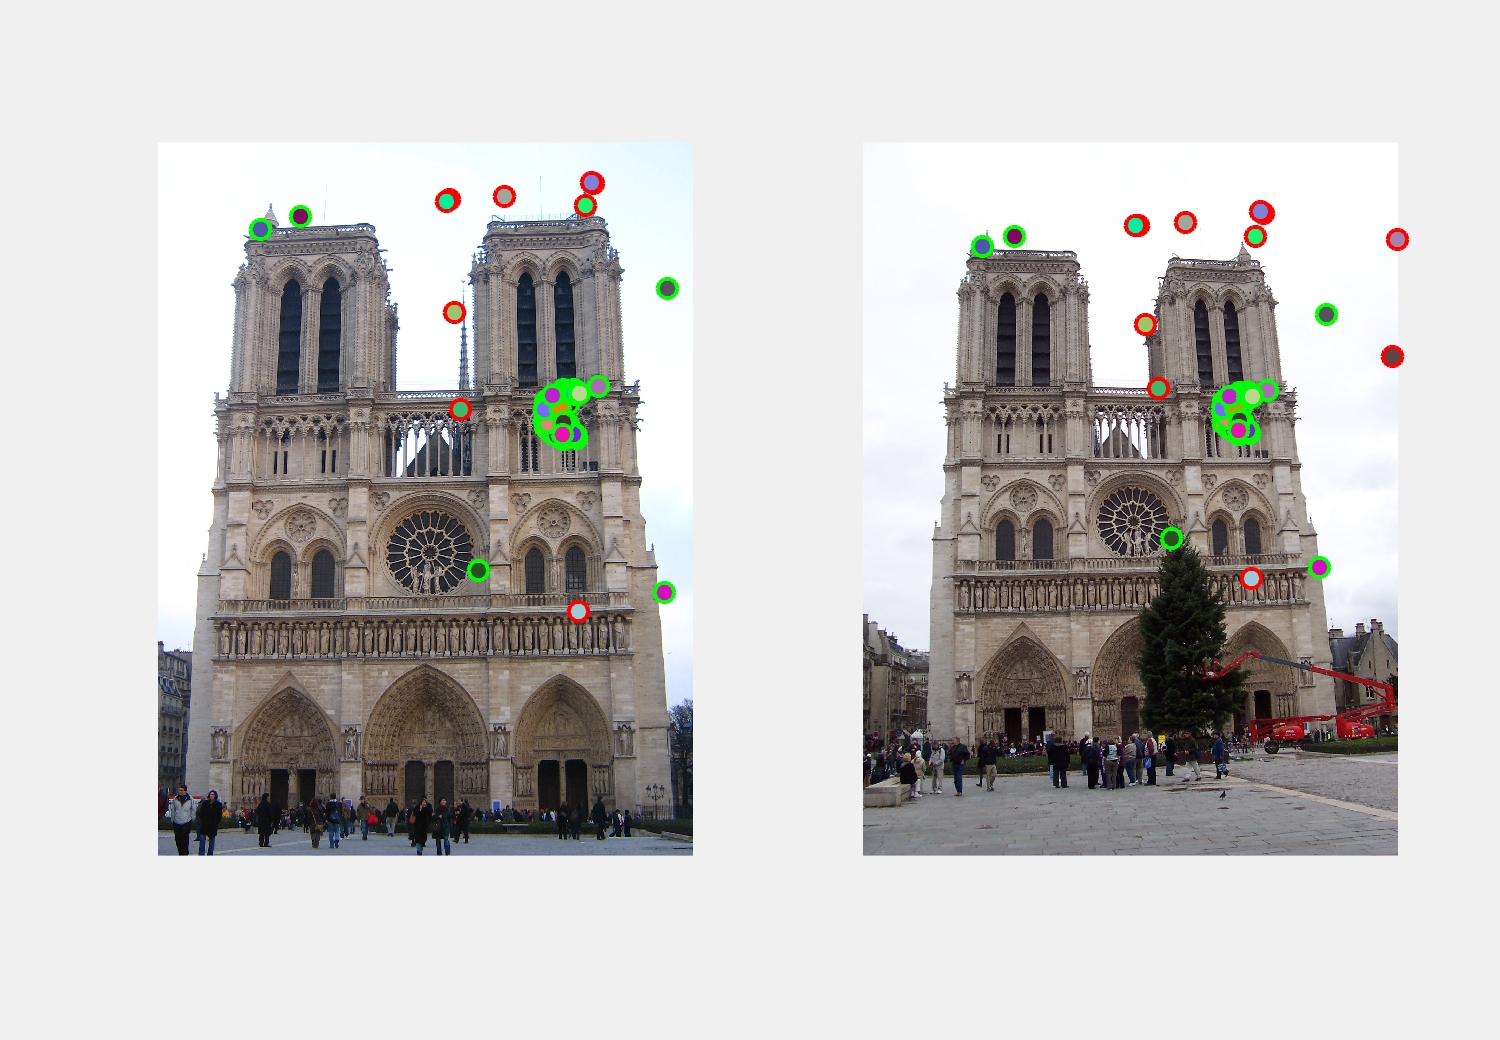
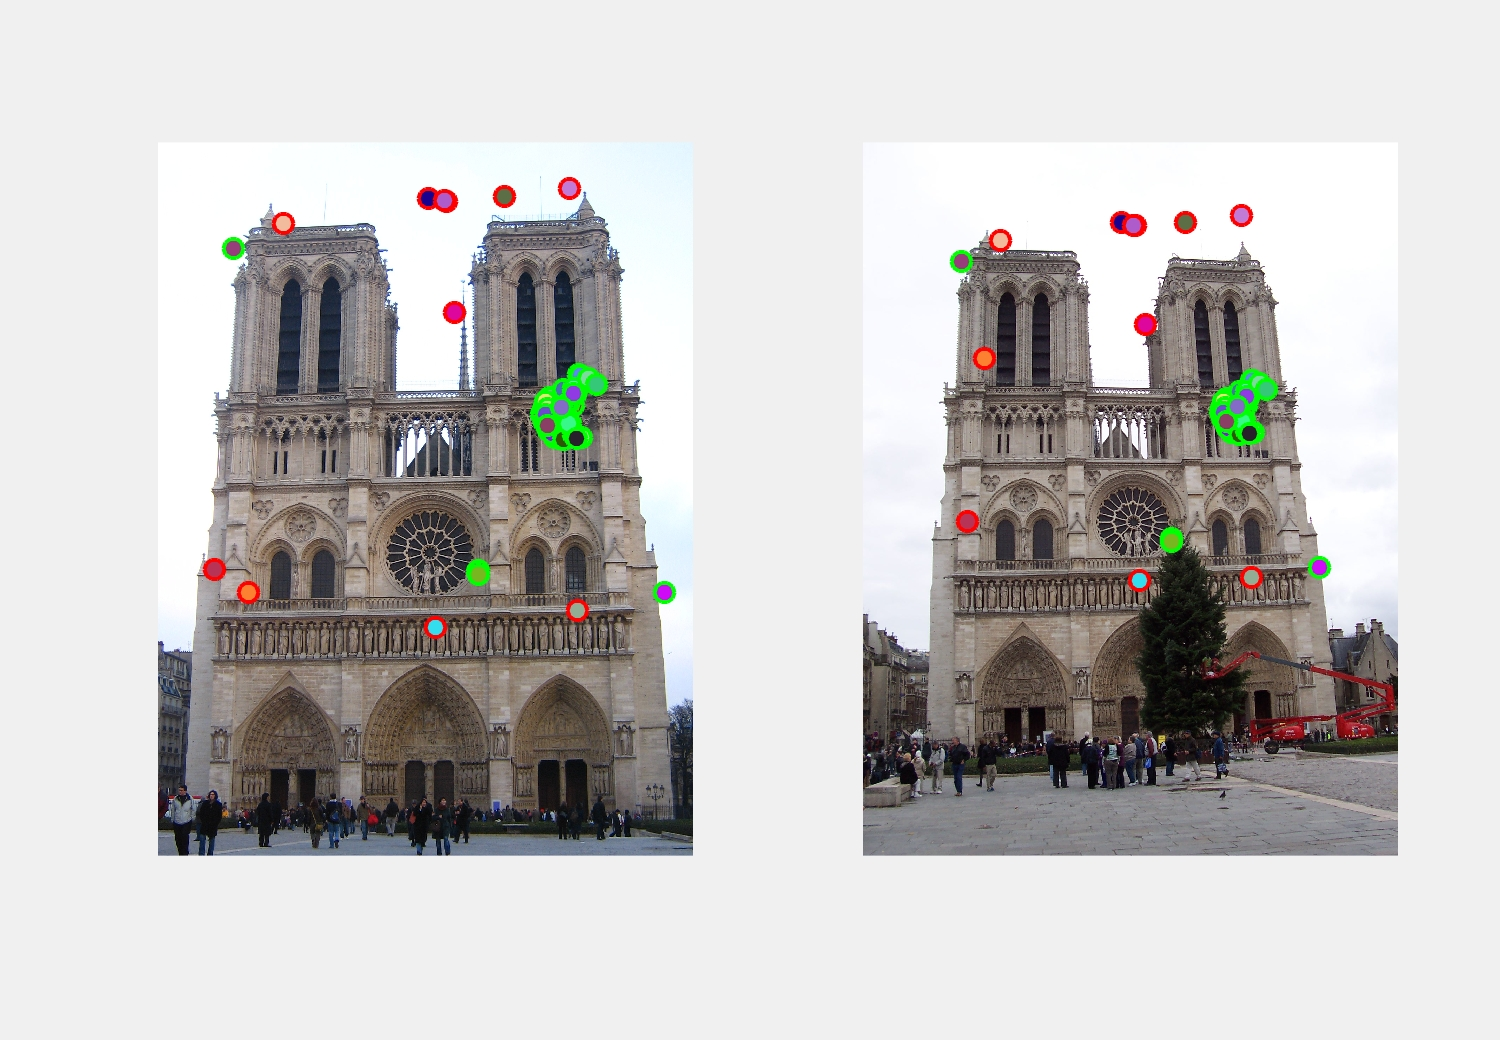
0.81

diff --git a/hw2files/code/get_interest_points.m b/hw2files/code/get_interest_points.m
@@ -22,7 +22,7 @@ image = im2double(image);
 
 %I cant decide which one should be first gaussian or gradient filter. May
 %be it doesnt matter.
-sigma = 1;
+sigma = 1.2;
 gaussian_filter = fspecial('Gaussian', feature_width+1, sigma);
 
 %case1: first gradient and after that gassian applied
@@ -36,7 +36,7 @@ gaussian_filter = fspecial('Gaussian', feature_width+1, sigma);
 [g_ch2x, g_ch2y] = imgradientxy( imfilter( squeeze(image(:,:,2) ), gaussian_filter));
 [g_ch3x, g_ch3y] = imgradientxy( imfilter( squeeze(image(:,:,3) ), gaussian_filter));
 
-second_gaussian = fspecial('average',[3,3]);
+second_gaussian = fspecial('average',[4,4]);
 a11 = imfilter(g_ch1x.*g_ch1x +  g_ch2x.* g_ch2x + g_ch3x.*g_ch3x, second_gaussian);
 a12 = imfilter(g_ch1x.*g_ch1y +  g_ch2x.* g_ch2y + g_ch3x.*g_ch3y, second_gaussian);
 a22 = imfilter(g_ch1y.*g_ch1y +  g_ch2y.* g_ch2y + g_ch3y.*g_ch3y, second_gaussian);
@@ -58,8 +58,8 @@ h = determinants - alpha*traces.*traces;
 threshold = h >10 * mean2(abs(h)) ; %adaptive
 h= h.*threshold;
 
-non_max = imregionalmax(h,8);      % Non max suppression
-[x,y] = find(non_max);
+h = imregionalmax(h,8);      % Non max suppression
+[x,y] = find(h);
 
 image_sizex = size(image,1);
 image_sizey = size(image,2);

diff --git a/hw2files/code/proj2.m b/hw2files/code/proj2.m
@@ -19,6 +19,7 @@ close all
 % additional images. A single scale pipeline works fine for these two
 % images (and will give you full credit for this project), but you will
 % need local features at multiple scales to handle harder cases.
+
 image1 = imread('../data/Notre Dame/921919841_a30df938f2_o.jpg');
 image2 = imread('../data/Notre Dame/4191453057_c86028ce1f_o.jpg');
 
@@ -42,7 +43,6 @@ feature_width = 16; %width and height of each local feature, 16x16, in pixels.
 % !!! You will need to implement get_features. !!!
 [image1_features] = get_features(image1, x1, y1, feature_width);
 [image2_features] = get_features(image2, x2, y2, feature_width);
- 
 
 
 %% Match features. 
@@ -51,7 +51,7 @@ feature_width = 16; %width and height of each local feature, 16x16, in pixels.
 
 % You might want to set 'num_pts_to_visualize' and 'num_pts_to_evaluate' to
 % some constant once you start detecting hundreds of interest points,
-% otherwise things might get too cluttered. You could also threshold based
+% otherwise  things might get too cluttered. You could also threshold based
 % on confidence.
 num_pts_to_visualize = size(matches,1);
 show_correspondence(image1, image2, x1(matches(1:num_pts_to_visualize,1)), ...

diff --git a/hw2files/code/get_features.m b/hw2files/code/get_features.m
@@ -42,7 +42,7 @@ function [features] = get_features(image, x, y, feature_width)
 
 gray_image = rgb2gray(image);
 
-sigma = 1;
+sigma = 1.2;
 gaussian_filter = fspecial('Gaussian', feature_width+1, sigma);
 [grad_magnitudes, grad_directions] =imgradient(imfilter(gray_image,gaussian_filter));
 
